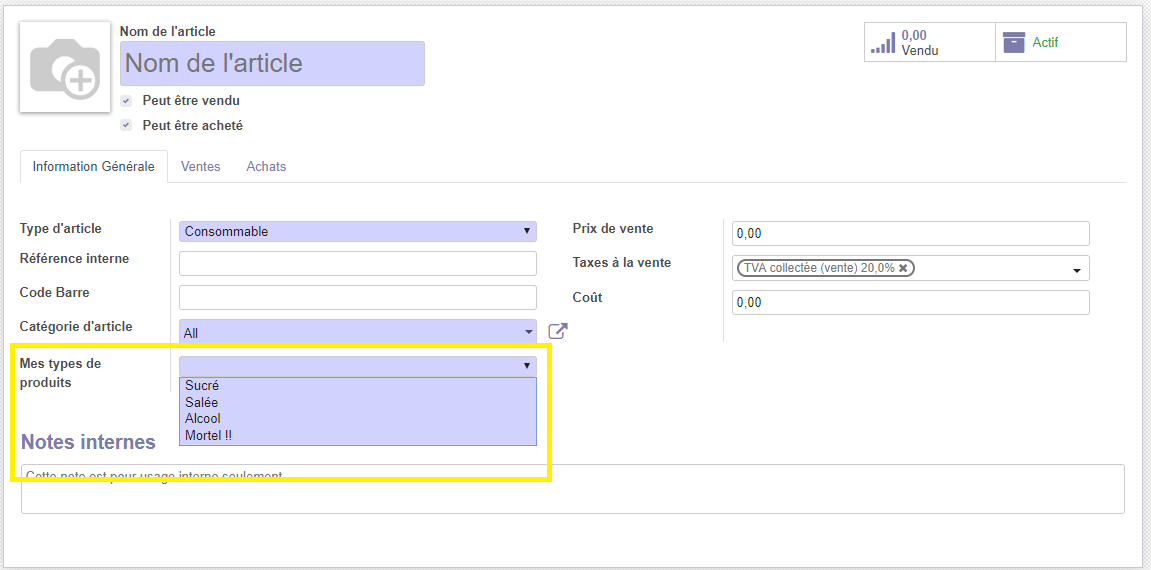
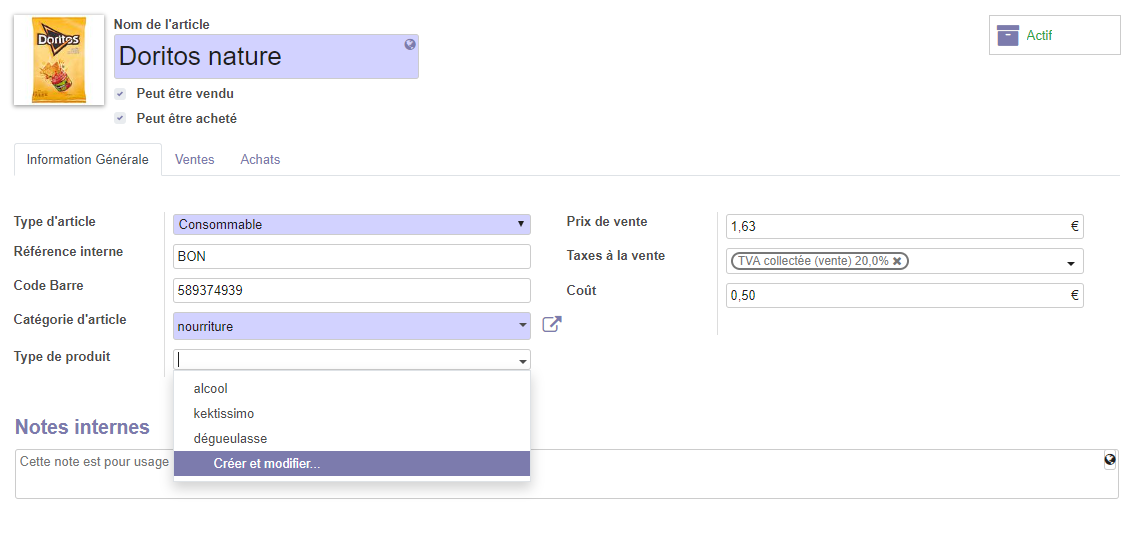
modification finale de la doc

diff --git a/models/models.py b/models/models.py
@@ -6,20 +6,4 @@ from odoo import models, fields
 class ProductTemplate(models.Model):
     _inherit = 'product.template'
 
-# Sans les valeurs prédéfinies
-# pb : si on utilise product.type dans la vue impossible de voir le module dans le menu
-#    test = fields.Many2one(comodel_name='product.product.type',string='Type de produit')
-#    fields.Selection(man,'Mes types de produits', required=True)
-
-# Test avec des valeurs prédéfinies
     typeprod = fields.Many2one(comodel_name='typeproduct.typeproduct',string='Type de produit')
-
-
-# Base créer avec scaffold
-#     value = fields.Integer()
-#     value2 = fields.Float(compute="_value_pc", store=True)
-#     description = fields.Text()
-#
-#     @api.depends('value')
-#     def _value_pc(self):
-#         self.value2 = float(self.value) / 100

diff --git a/documentation/docs/dev.md b/documentation/docs/dev.md
@@ -12,13 +12,13 @@ Le but était d'ajouter notre champ type dans l'onglet du produit
 
 ![Screenshot](img/dev_produit_type.png)
 
-Pour faire cette modification nous avons créé notre propre module "product_type" puis nous avons créé une classe ProductTemplate dans laquelle on effectue un lien vers la template du module product d'Odoo.
+Pour faire cette modification nous avons créé notre propre module "product_type" puis nous avons créé une classe TypeProduct qui permet de définir le nom de nos types.
+
+![Screenshot](img/class_type_product.PNG)
+
+Ainsi que la classe ProductTemplate dans laquelle on effectue un lien vers la template du module product d'Odoo.
 
 ![Screenshot](img/class_product.PNG)
-
-On a ensuite initialisé une variable contenant un tableau de type de produit.
-
-#
 
 Pour l'affichage on crée un record dans lequel on appelle la variable de notre models.py, on place ensuite le tout dans note template XML.
 
@@ -29,21 +29,19 @@ Pour l'affichage on crée un record dans lequel on appelle la variable de notre 
 
 #
 
-Nous avons créé notre propre module et nous l'avons connecté avec la database afin de créer des types de produit.
+Dans la classe ProductTemplate, nous avons effectué la connexion avec la table à l'aide de la fonction Many2one.
 
-#
-
-On peut y accéder depuis le menu d'Odoo 
+![Screenshot](img/many2one.PNG)
 
 ## Créer une interface dans Odoo qui permet de rajouter les types de de produits
 
 #
 
-Nous avons créé notre propre module et nous l'avons connecté avec la database afin de créer des types de produit.ts.
+Nous avons créé notre propre module et nous l'avons connecté avec la database afin de créer des types de produits.
 
 # 
 
-On peut accéder à l'interface depuis le menu de Odoo
+On peut accéder à l'interface depuis le menu de Odoo ainsi que depuis l'interface du produit.
 
 ![Screenshot](img/menu_product_type.PNG)
 
